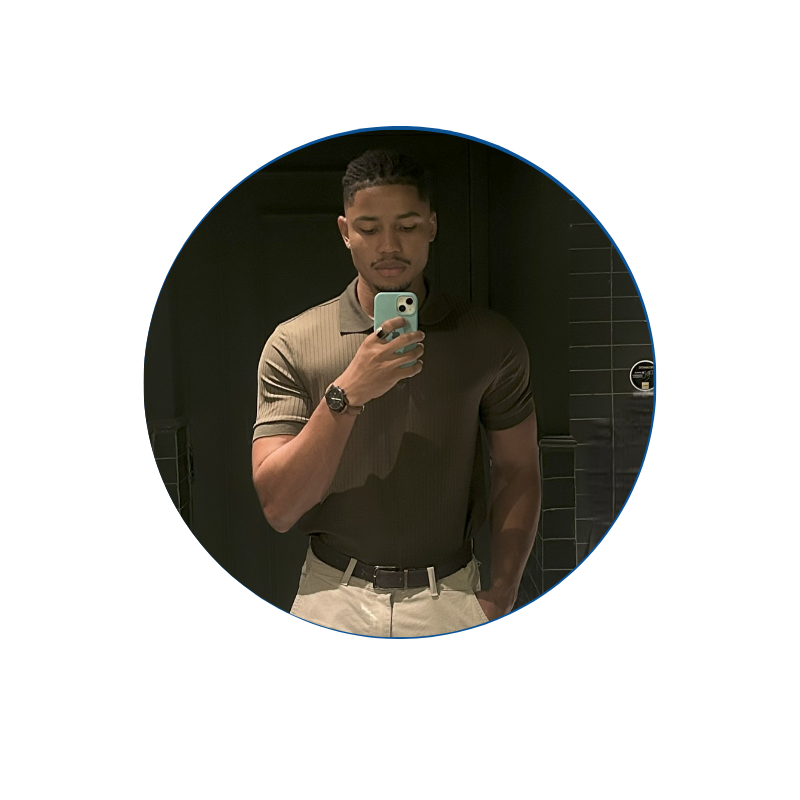
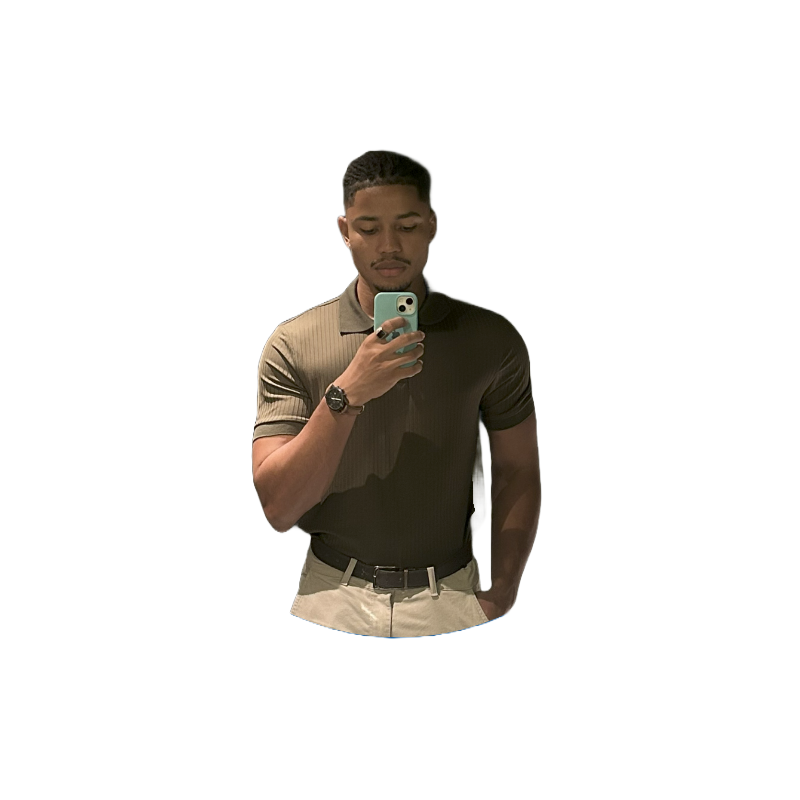
troca de informações

Changed region(s): [[0.1562, 0.1562, 0.8438, 0.7812]]

diff --git a/index.html b/index.html
@@ -108,7 +108,7 @@
                                     129.362C2.45775 97.8511 -7.48481 59.1033 6.67581 34.5279C20.9871 10.1032 59.7028 
                                     -0.149132 97.9666 0.00163737C136.23 0.303176 174.193 10.857 190.312 36.4879Z"/>
                                    
-                                    <image class="home__blob-img" x="12"  xlink:href="assets/img/perfil2.png"/>
+                                    <image class="home__blob-img" x="12"  xlink:href="assets/img/perfil.png"/>
                                 </g>
                             </svg>
                         </div>
